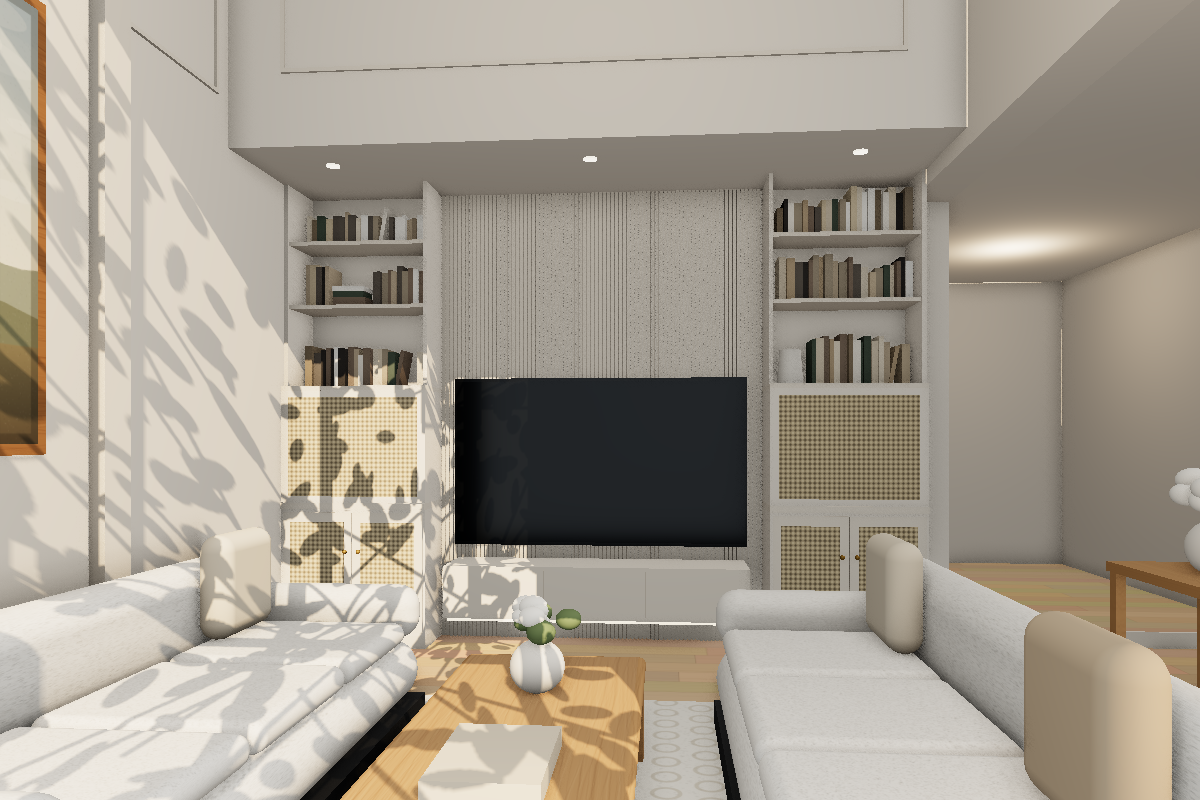
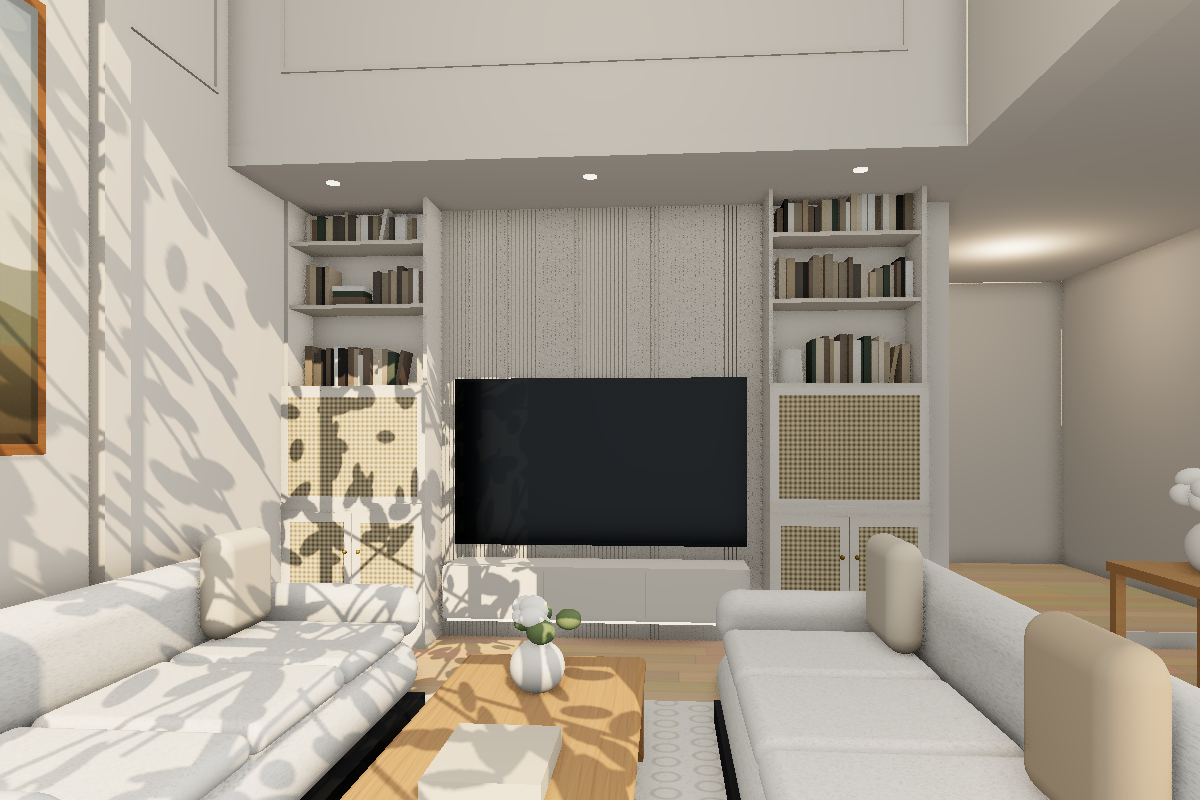
TV we wnęce: wnęka obniżona do spodu podciągu (280 cm)
Claude-Session: https://claude.ai/code/session_01STLbtYii5p8wK44WZJV9Pu

Changed region(s): [[0.185, 0.1562, 0.8017, 0.2812]]

diff --git a/koncepcje/salon-wneka/model-tv-wneka/index.html b/koncepcje/salon-wneka/model-tv-wneka/index.html
@@ -15,7 +15,7 @@ button{border:1px solid var(--line);background:var(--btn);color:var(--fg);border
 </style>
 <script type="importmap">{"imports":{"three":"https://cdn.jsdelivr.net/npm/three@0.170.0/build/three.module.js","three/addons/":"https://cdn.jsdelivr.net/npm/three@0.170.0/examples/jsm/"}}</script>
 <div id="load">Ładowanie modelu 3D…</div>
-<div id="hd"><b>TV we wnęce – ciepła biel</b><span>Zabudowa TV we wnęce w ciepłej bieli (wieże z plecionką, lamele, konsola). Ściana płd.: ramka +10 cm (1,5× szersza), pas cofnięty o 7 cm, panel +7 cm z obrazem na środku. Przeciągnij, żeby obracać.</span></div>
+<div id="hd"><b>TV we wnęce – ciepła biel</b><span>Wnęka obniżona do spodu podciągu (280 cm), zabudowa TV w ciepłej bieli (wieże z plecionką, lamele, konsola). Ściana płd.: ramka +10 cm (1,5× szersza), pas cofnięty o 7 cm, panel +7 cm z obrazem na środku. Przeciągnij, żeby obracać.</span></div>
 <div id="ui"><div class="grp"><span class="lab">Kanapy</span><button data-c="k2wp" class="on">Dwie równoległe</button><button data-c="k2w">Narożnik</button></div>
 <div class="grp"><span class="lab">Widok</span><button data-v="wneka" class="on">Wnęka</button><button data-v="salon">Ściana z obrazem</button><button data-v="okno">Od wnęki</button><button data-v="gora">Z góry</button></div></div>
 <script>window.__ready=()=>{document.getElementById('load').remove();window.__go('wneka');
@@ -354,22 +354,24 @@ function conceptK2W(mode = 'L') {
   B(cx - pw / 2, cx + pw / 2, 10, 13, ph0, ph0 + phh, mat.oakD); B(cx - pw / 2 + 4, cx + pw / 2 - 4, 13, 13.4, ph0 + 4, ph0 + phh - 4, M({ map: paintTex(0), roughness: .7 }));
   B(cx - 2, cx + 2, 10, 17, ph0 + phh + 12, ph0 + phh + 20, mat.brass); B(cx - 34, cx + 34, 14, 21, ph0 + phh + 8, ph0 + phh + 12, mat.brass);
   { const l = new THREE.SpotLight('#ffd9a0', 4, 3, .9, .8, 2); l.position.set(-cx / 100, (ph0 + phh + 8) / 100, .2); l.target.position.set(-cx / 100, (ph0 + phh / 2) / 100, 0); CUR.add(l, l.target); }
+  // --- wnęka obniżona do spodu podciągu (280 cm)
+  const TOP = 280; B(0, NICHE + 1, 0, BEAM0, TOP, HN + 1, mat.wall);
   // --- wnęka: zabudowa TV w ciepłej bieli
   const WB = mat.wall, WC = mat.wall2;
   for (const [a, b] of [[0, 92], [302, 394]]) {
     B(0, 40, a, b, 0, 8, WC); B(0, 40, a, b, 8, 86, WB); const m = (a + b) / 2;
     for (const [p, q] of [[a + 1.5, m - .3], [m + .3, b - 1.5]]) { B(40, 41.2, p, q, 10, 84, WC); const c = B(41.2, 41.6, p + 5, q - 5, 16, 78, mat.cane); uvScale(c, 2.2); sph(42.6, p < m ? q - 4 : p + 4, 60, 1.4, mat.brass); }
     B(0, 42, a, b, 86, 90, WC); B(0, 40, a, b, 90, 160, WB); const sp = B(40, 40.6, a + 5, b - 5, 94, 156, mat.cane); uvScale(sp, 2.2);
-    B(0, 40, a, b, 160, 163, WC); B(0, 36, a, a + 2.5, 163, HN, WB); B(0, 36, b - 2.5, b, 163, HN, WB);
+    B(0, 40, a, b, 160, 163, WC); B(0, 36, a, a + 2.5, 163, TOP, WB); B(0, 36, b - 2.5, b, 163, TOP, WB);
     for (const h of [212, 252]) B(0, 34, a + 2, b - 2, h, h + 2.5, WC);
     for (const [h, mh] of [[163, 46], [214.5, 36], [254.5, 32]]) shelf('y', a + 3, b - 3, h, 32, mh, 0, 1);
   }
-  for (let y = 93; y < 301; y += 2.6) B(2, 4.5, y, y + 1.9, 0, HN, WC, { cast: false });
+  for (let y = 93; y < 301; y += 2.6) B(2, 4.5, y, y + 1.9, 0, TOP, WC, { cast: false });
   B(4.5, 5.5, 102, 292, 61, 169, new THREE.MeshStandardMaterial({ color: '#ffe9c4', emissive: '#ffd99a', emissiveIntensity: 1.4 }), { cast: false });
   B(5.5, 9, 102.5, 291.5, 61, 169, mat.blackG); B(9, 9.3, 104, 290, 63, 167, mat.screen);
   B(4.5, 42, 104, 290, 20, 52, WC); for (const y of [166, 228]) B(42, 42.3, y - .3, y + .3, 22, 50, M({ color: '#d8cdbd' }));
   ledStrip(4.5, 40, 106, 288, 18, 20);
-  for (const y of [46, 197, 348]) cyl(70, y, HN - 1, HN, 4, mat.glow, 16);
+  for (const y of [46, 197, 348]) cyl(70, y, TOP - 1, TOP, 4, mat.glow, 16);
   flushBooks();
   // --- meble
   if (mode === 'L') {

diff --git a/koncepcje/dom-3d/scene.js b/koncepcje/dom-3d/scene.js
@@ -330,22 +330,24 @@ function conceptK2W(mode = 'L') {
   B(cx - pw / 2, cx + pw / 2, 10, 13, ph0, ph0 + phh, mat.oakD); B(cx - pw / 2 + 4, cx + pw / 2 - 4, 13, 13.4, ph0 + 4, ph0 + phh - 4, M({ map: paintTex(0), roughness: .7 }));
   B(cx - 2, cx + 2, 10, 17, ph0 + phh + 12, ph0 + phh + 20, mat.brass); B(cx - 34, cx + 34, 14, 21, ph0 + phh + 8, ph0 + phh + 12, mat.brass);
   { const l = new THREE.SpotLight('#ffd9a0', 4, 3, .9, .8, 2); l.position.set(-cx / 100, (ph0 + phh + 8) / 100, .2); l.target.position.set(-cx / 100, (ph0 + phh / 2) / 100, 0); CUR.add(l, l.target); }
+  // --- wnęka obniżona do spodu podciągu (280 cm)
+  const TOP = 280; B(0, NICHE + 1, 0, BEAM0, TOP, HN + 1, mat.wall);
   // --- wnęka: zabudowa TV w ciepłej bieli
   const WB = mat.wall, WC = mat.wall2;
   for (const [a, b] of [[0, 92], [302, 394]]) {
     B(0, 40, a, b, 0, 8, WC); B(0, 40, a, b, 8, 86, WB); const m = (a + b) / 2;
     for (const [p, q] of [[a + 1.5, m - .3], [m + .3, b - 1.5]]) { B(40, 41.2, p, q, 10, 84, WC); const c = B(41.2, 41.6, p + 5, q - 5, 16, 78, mat.cane); uvScale(c, 2.2); sph(42.6, p < m ? q - 4 : p + 4, 60, 1.4, mat.brass); }
     B(0, 42, a, b, 86, 90, WC); B(0, 40, a, b, 90, 160, WB); const sp = B(40, 40.6, a + 5, b - 5, 94, 156, mat.cane); uvScale(sp, 2.2);
-    B(0, 40, a, b, 160, 163, WC); B(0, 36, a, a + 2.5, 163, HN, WB); B(0, 36, b - 2.5, b, 163, HN, WB);
+    B(0, 40, a, b, 160, 163, WC); B(0, 36, a, a + 2.5, 163, TOP, WB); B(0, 36, b - 2.5, b, 163, TOP, WB);
     for (const h of [212, 252]) B(0, 34, a + 2, b - 2, h, h + 2.5, WC);
     for (const [h, mh] of [[163, 46], [214.5, 36], [254.5, 32]]) shelf('y', a + 3, b - 3, h, 32, mh, 0, 1);
   }
-  for (let y = 93; y < 301; y += 2.6) B(2, 4.5, y, y + 1.9, 0, HN, WC, { cast: false });
+  for (let y = 93; y < 301; y += 2.6) B(2, 4.5, y, y + 1.9, 0, TOP, WC, { cast: false });
   B(4.5, 5.5, 102, 292, 61, 169, new THREE.MeshStandardMaterial({ color: '#ffe9c4', emissive: '#ffd99a', emissiveIntensity: 1.4 }), { cast: false });
   B(5.5, 9, 102.5, 291.5, 61, 169, mat.blackG); B(9, 9.3, 104, 290, 63, 167, mat.screen);
   B(4.5, 42, 104, 290, 20, 52, WC); for (const y of [166, 228]) B(42, 42.3, y - .3, y + .3, 22, 50, M({ color: '#d8cdbd' }));
   ledStrip(4.5, 40, 106, 288, 18, 20);
-  for (const y of [46, 197, 348]) cyl(70, y, HN - 1, HN, 4, mat.glow, 16);
+  for (const y of [46, 197, 348]) cyl(70, y, TOP - 1, TOP, 4, mat.glow, 16);
   flushBooks();
   // --- meble
   if (mode === 'L') {
